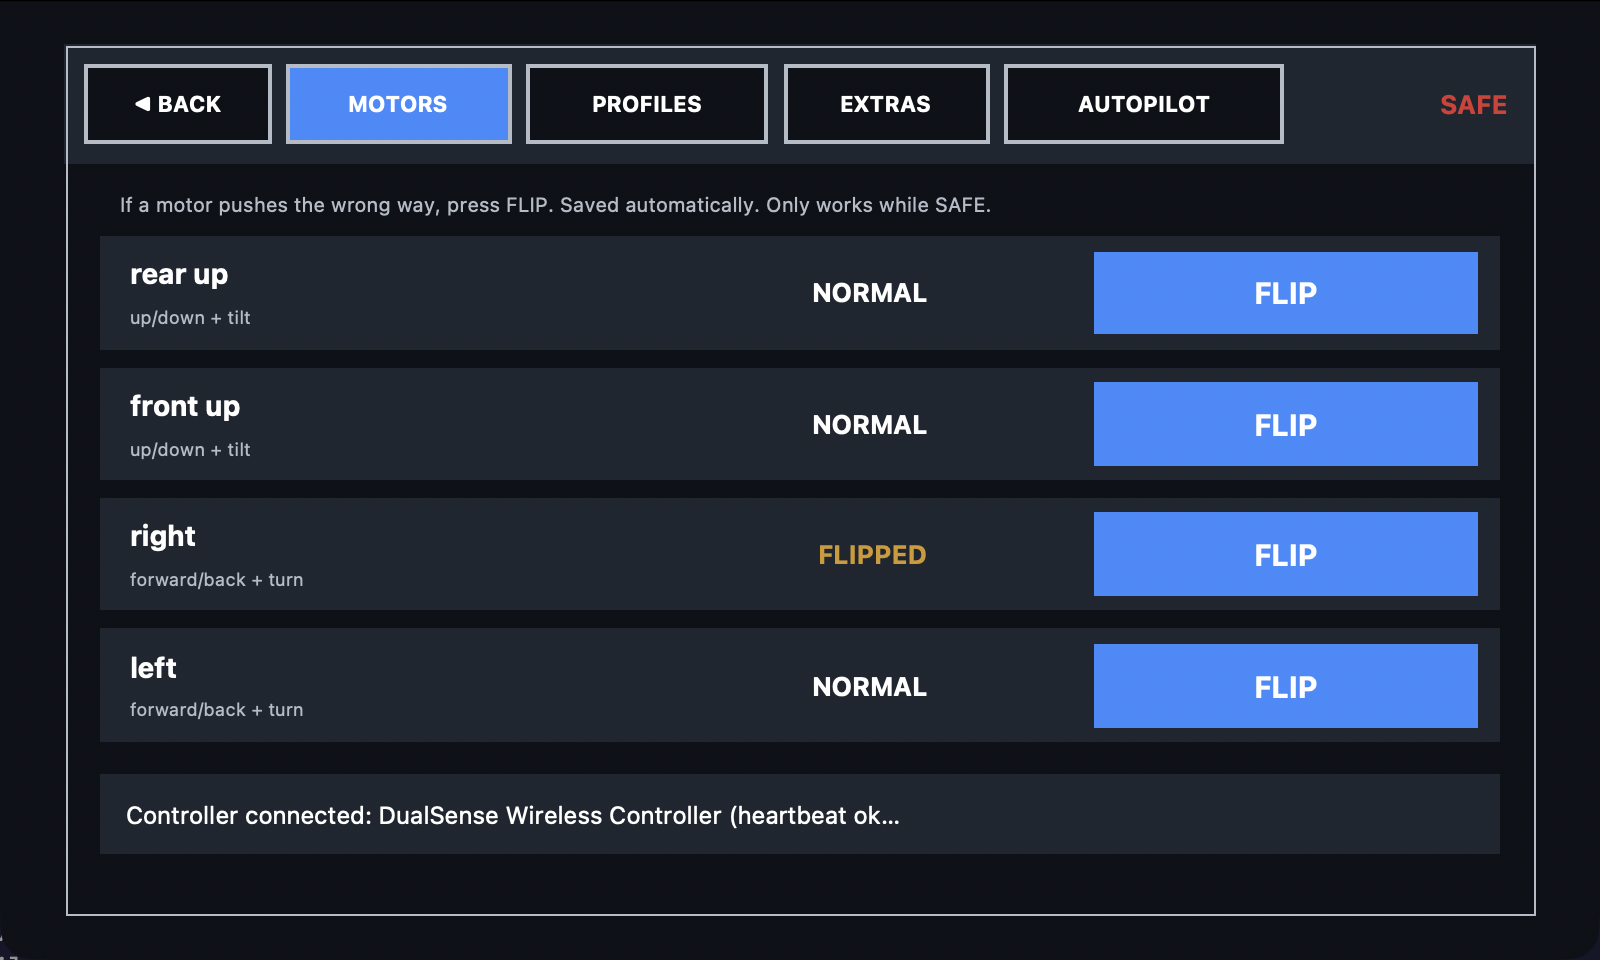
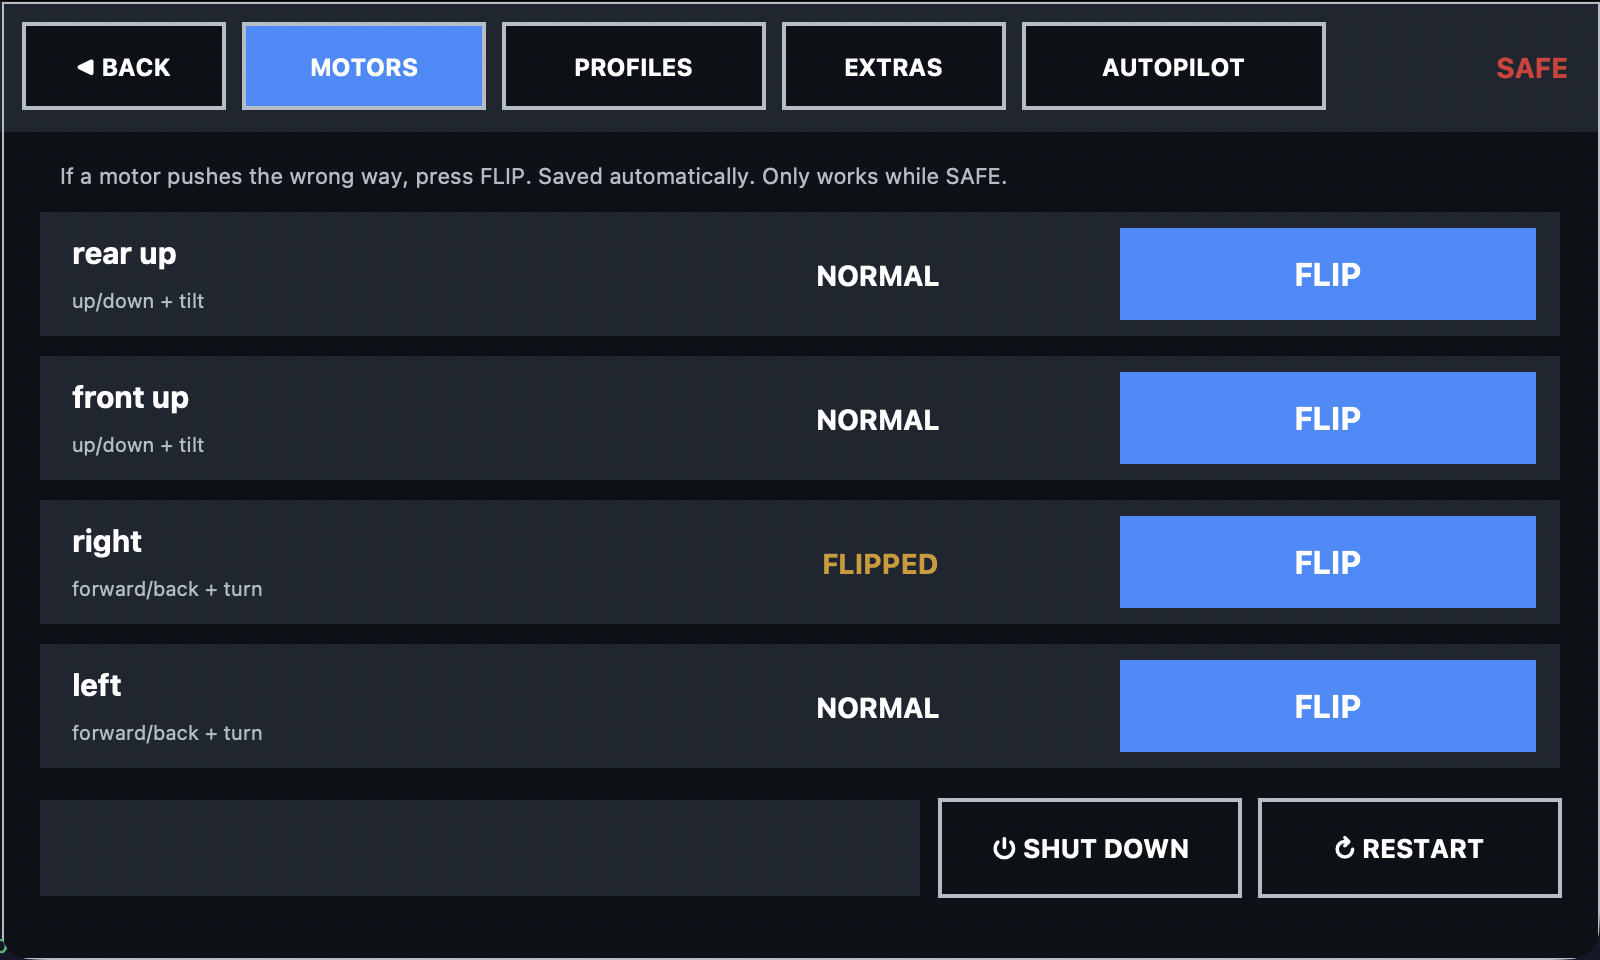
Camera full screen, ISO and RGB picture controls, Pi shut down / restart buttons
- CAMERA > FULL SCREEN: video fills the screen, STOP + ARMED/SAFE in the side bars
- PICTURE: GAIN is now ISO (25-400); WARMTH replaced by RED / GREEN / BLUE
  (old warmth settings carry over)
- SETUP > MOTORS: SHUT DOWN / RESTART the Pi (SAFE only, tap twice to confirm,
  motors off first; works even if the ROV program isn't running)

Changed region(s): [[0.0, 0.0, 1.0, 0.9375], [0.5, 0.5625, 0.5938, 0.5938], [0.0, 0.9688, 0.0312, 1.0]]

diff --git a/rov_gui.py b/rov_gui.py
@@ -151,11 +151,13 @@ FLIP_TEXT = {"none": "", "rotate": "UPSIDE DOWN", "mirror": "MIRRORED"}
 # Picture adjustments (done in ffmpeg, so they work with any capture card):
 # key, label, min, max, step, default, how to show the value
 PICTURE = [
-    ("gain", "GAIN (ISO)", 0.25, 4.0, 0.25, 1.0, lambda v: f"x{v:.2f}"),
+    ("gain", "ISO", 0.25, 4.0, 0.25, 1.0, lambda v: f"{v * 100:.0f}"),      # ISO 100 = normal
     ("brightness", "BRIGHTNESS", -0.5, 0.5, 0.05, 0.0, lambda v: f"{round(v * 20):+d}"),
     ("contrast", "CONTRAST", 0.5, 2.0, 0.1, 1.0, lambda v: f"x{v:.1f}"),
     ("saturation", "COLOUR", 0.0, 3.0, 0.1, 1.0, lambda v: f"x{v:.1f}"),
-    ("warmth", "WARMTH", -1.0, 1.0, 0.1, 0.0, lambda v: f"{round(v * 10):+d}"),
+    ("red", "RED", 0.0, 2.0, 0.05, 1.0, lambda v: f"{v * 100:.0f}%"),
+    ("green", "GREEN", 0.0, 2.0, 0.05, 1.0, lambda v: f"{v * 100:.0f}%"),
+    ("blue", "BLUE", 0.0, 2.0, 0.05, 1.0, lambda v: f"{v * 100:.0f}%"),
 ]
 PICTURE_DEFAULT = {k: d for k, _, _, _, _, d, _ in PICTURE}
 
@@ -164,10 +166,12 @@ def picture_filters(adj):
     """ffmpeg filters for the picture settings (none when everything is at default)."""
     a = dict(PICTURE_DEFAULT, **adj)
     out = []
-    g, w = a["gain"], a["warmth"]
-    if abs(g - 1) > 1e-6 or abs(w) > 1e-6:
-        # gain = brighter sensor (like ISO); warmth = more red / less blue (water makes things blue-green)
-        out.append(f"colorchannelmixer=rr={g * (1 + 0.35 * w):.3f}:gg={g:.3f}:bb={g * (1 - 0.35 * w):.3f}")
+    g = a["gain"]
+    r, gr, b = g * a["red"], g * a["green"], g * a["blue"]
+    if any(abs(v - 1) > 1e-6 for v in (r, gr, b)):
+        # ISO = brighter picture (all colours); RED/GREEN/BLUE = each colour on its own
+        # (water makes things blue-green: try more RED, less BLUE)
+        out.append(f"colorchannelmixer=rr={r:.3f}:gg={gr:.3f}:bb={b:.3f}")
     if abs(a["brightness"]) > 1e-6 or abs(a["contrast"] - 1) > 1e-6 or abs(a["saturation"] - 1) > 1e-6:
         out.append(f"eq=brightness={a['brightness']:.2f}:contrast={a['contrast']:.2f}"
                    f":saturation={a['saturation']:.2f}")
@@ -188,6 +192,13 @@ def load_camera_settings():
     if not isinstance(data, dict):
         data = {}
     flip = data.get("flip", "none")
+    pic = data.get("picture")
+    if isinstance(pic, dict) and "warmth" in pic and "red" not in pic:    # older setting: WARMTH -> RED/BLUE
+        try:
+            w = float(pic["warmth"])
+            pic.update(red=round(1 + 0.35 * w, 2), blue=round(1 - 0.35 * w, 2))
+        except (TypeError, ValueError):
+            pass
     adj = {}
     for k, _, lo, hi, _, d, _ in PICTURE:
         try:
@@ -483,12 +494,60 @@ class Dashboard:
             c.create_text(664, y + 31, text="FLIP", font=fnt(16, "bold"), fill="white", tags=tag)
             c.tag_bind(tag, "<Button-1>", lambda e, i=i: self.flip(i))
             self.flip_rows.append((name, job, state, rect))
-        c.create_rectangle(20, 402, 780, 446, fill=PANEL, width=0)
-        self.setup_msg = c.create_text(34, 424, anchor="w", text="", font=fnt(13), fill=FG)
+        c.create_rectangle(20, 400, 460, 448, fill=PANEL, width=0)
+        self.setup_msg = c.create_text(34, 424, anchor="w", text="", font=fnt(12), fill=FG)
+        # Pi power (tap twice: the first tap asks "TAP AGAIN")
+        for x0, x1, what, label in ((470, 620, "off", "⏻ SHUT DOWN"), (630, 780, "reboot", "↻ RESTART")):
+            tag = f"pw_{what}"
+            c.create_rectangle(x0, 400, x1, 448, fill=BG, outline=DIM, width=2, tags=tag)
+            c.create_text((x0 + x1) / 2, 424, text=label, font=fnt(13, "bold"), fill=FG, tags=tag)
+            c.tag_bind(tag, "<Button-1>", lambda e, w=what: self.power_click(w))
         c.create_rectangle(1, 1, W - 1, H - 1, outline=DIM, width=1)
         c.scale("all", 0, 0, SX, SY)
         c.move("all", MARGINS[0], MARGINS[1])
         self.armed = False
+        self.power_armed, self.power_job = None, None
+        self.setup_note, self.setup_note_until = "", 0.0
+
+    def power_label(self, what, text, color):
+        c = self.c2
+        for item in c.find_withtag(f"pw_{what}"):
+            if c.type(item) == "text":
+                c.itemconfig(item, text=text)
+            else:
+                c.itemconfig(item, fill=color)
+
+    def power_reset(self):
+        self.power_armed = self.power_job = None
+        self.power_label("off", "⏻ SHUT DOWN", BG)
+        self.power_label("reboot", "↻ RESTART", BG)
+
+    def power_click(self, what):
+        """SHUT DOWN / RESTART the Pi: only while SAFE, and only after a second tap within 4 s."""
+        word = "SHUT DOWN" if what == "off" else "RESTART"
+        if self.armed:
+            self.setup_note, self.setup_note_until = f"Press STOP first, then {word}", time.monotonic() + 5
+            return
+        if self.power_armed == what:
+            if self.power_job:
+                self.root.after_cancel(self.power_job)
+            self.power_reset()
+            self.cam.stop()
+            if read_status() is not None:
+                send("power:" + what)          # rov.py switches the motors off first, then powers off
+            else:                              # ROV program not running: do it from here
+                action = "poweroff" if what == "off" else "reboot"
+                subprocess.Popen(["sudo", "-n", "systemctl", action], stdout=subprocess.DEVNULL,
+                                 stderr=subprocess.DEVNULL)
+            self.setup_note = "Shutting down…" if what == "off" else "Restarting…"
+            self.setup_note_until = time.monotonic() + 60
+            return
+        self.power_reset()
+        self.power_armed = what
+        self.power_label(what, "TAP AGAIN", RED)
+        self.setup_note = "Tap again to power OFF the Pi" if what == "off" else "Tap again to RESTART the Pi (~1 min)"
+        self.setup_note_until = time.monotonic() + 4
+        self.power_job = self.root.after(4000, self.power_reset)
 
     def flip(self, i):
         if self.armed:
@@ -1235,23 +1294,39 @@ class Dashboard:
         self.cprofile = c.create_text(624, 96, anchor="w", text="", font=fnt(11), fill=DIM)
         self.cbars = []
         for i in range(4):
-            y = 118 + i * 44
+            y = 110 + i * 40
             name = c.create_text(624, y + 8, anchor="w", text="", font=fnt(10), fill=FG)
             c.create_rectangle(624, y + 20, 788, y + 34, fill=TRACK, width=0)
             bar = c.create_rectangle(706, y + 20, 706, y + 34, fill=GREEN, width=0)
             c.create_line(706, y + 17, 706, y + 37, fill=DIM)
             self.cbars.append((name, bar))
-        self.small_button(c, 620, 294, 702, 334, "◀ BACK", self.show_main, tag="cam_back")
-        self.small_button(c, 710, 294, 792, 334, "FLIP ↻", self.flip_camera, tag="cam_flip")
-        self.small_button(c, 620, 340, 702, 378, "PICTURE", self.toggle_picture, tag="cam_pic")
-        self.pick_btn = self.small_button(c, 710, 340, 792, 378, "PICK", self.toggle_pick, tag="cam_pick")
+        self.small_button(c, 620, 272, 702, 306, "◀ BACK", self.show_main, tag="cam_back")
+        self.small_button(c, 710, 272, 792, 306, "FLIP ↻", self.flip_camera, tag="cam_flip")
+        self.small_button(c, 620, 312, 702, 346, "PICTURE", self.toggle_picture, tag="cam_pic")
+        self.pick_btn = self.small_button(c, 710, 312, 792, 346, "PICK", self.toggle_pick, tag="cam_pick")
+        self.small_button(c, 620, 352, 792, 386, "⛶ FULL SCREEN", self.toggle_full, tag="cam_full")
         c.bind("<Button-1>", self.cam_click, add="+")
         self.flip_label = c.create_text(10, 14, anchor="w", text="", font=fnt(11, "bold"), fill=AMBER)
-        c.create_rectangle(620, 386, 792, 470, fill=RED, outline=TRACK, width=2, tags="cam_stop")
-        c.create_text(706, 420, text="STOP", font=fnt(24, "bold"), fill="white", tags="cam_stop")
-        c.create_text(706, 454, text="(Esc)", font=fnt(10), fill="#f0f0f0", tags="cam_stop")
+        c.create_rectangle(620, 394, 792, 470, fill=RED, outline=TRACK, width=2, tags="cam_stop")
+        c.create_text(706, 424, text="STOP", font=fnt(24, "bold"), fill="white", tags="cam_stop")
+        c.create_text(706, 456, text="(Esc)", font=fnt(10), fill="#f0f0f0", tags="cam_stop")
         c.tag_bind("cam_stop", "<Button-1>", lambda e: send("stop"))
         self.cmsg = c.create_text(8, 465, anchor="w", text="", font=fnt(11), fill=FG)
+        c.addtag_overlapping("side", 607, 0, 800, 480)       # the sidebar: hidden in full screen
+        c.addtag_withtag("side", self.cmsg)
+        # full screen: 4:3 video in the middle (80..720), these controls in the black bars at the sides
+        self.fbadge = c.create_rectangle(724, 6, 796, 56, fill=RED, width=0, tags="fs")
+        self.fbadge_txt = c.create_text(760, 31, text="SAFE", font=fnt(12, "bold"), fill="white", tags="fs")
+        self.fspeed = c.create_text(760, 76, text="", font=fnt(11, "bold"), fill=FG, tags="fs")
+        c.create_rectangle(724, 330, 796, 474, fill=RED, outline=TRACK, width=2, tags=("fs", "fs_stop"))
+        c.create_text(760, 392, text="STOP", font=fnt(15, "bold"), fill="white", tags=("fs", "fs_stop"))
+        c.create_text(760, 420, text="(Esc)", font=fnt(9), fill="#f0f0f0", tags=("fs", "fs_stop"))
+        c.tag_bind("fs_stop", "<Button-1>", lambda e: send("stop"))
+        c.create_rectangle(4, 6, 76, 120, fill=PANEL, outline=DIM, width=2, tags=("fs", "fs_exit"))
+        c.create_text(40, 46, text="⛶", font=fnt(22, "bold"), fill=FG, tags=("fs", "fs_exit"))
+        c.create_text(40, 90, text="EXIT", font=fnt(11, "bold"), fill=FG, tags=("fs", "fs_exit"))
+        c.tag_bind("fs_exit", "<Button-1>", lambda e: self.toggle_full())
+        self.full = False
         self.build_picture_panel(c)
         self.picking = False
         c.scale("all", 0, 0, SX, SY)
@@ -1273,25 +1348,26 @@ class Dashboard:
         c.tag_raise("pic")
         c.itemconfig("pic", state="hidden")
         c.itemconfig(self.flip_label, text=FLIP_TEXT[self.cam_flip])
+        c.itemconfig("fs", state="hidden")
         self.shown_frame = 0
 
     # picture adjustments panel (over the left of the video)
     def build_picture_panel(self, c):
-        c.create_rectangle(6, 30, 306, 314, fill=PANEL, outline=DIM, width=2, tags="pic")
+        c.create_rectangle(6, 30, 306, 352, fill=PANEL, outline=DIM, width=2, tags="pic")
         self.pic_vals = {}
         for i, (k, label, *_rest) in enumerate(PICTURE):
-            y = 40 + i * 44
-            c.create_text(16, y + 18, anchor="w", text=label, font=fnt(11, "bold"), fill=FG, tags="pic")
+            y = 38 + i * 38
+            c.create_text(16, y + 16, anchor="w", text=label, font=fnt(11, "bold"), fill=FG, tags="pic")
             for x0, sym, d in ((150, "−", -1), (258, "+", 1)):
                 t = f"pic_{k}_{'up' if d > 0 else 'dn'}"
-                c.create_rectangle(x0, y, x0 + 40, y + 36, fill=BG, outline=DIM, width=2, tags=("pic", t))
-                c.create_text(x0 + 20, y + 18, text=sym, font=fnt(15, "bold"), fill=FG, tags=("pic", t))
+                c.create_rectangle(x0, y, x0 + 40, y + 32, fill=BG, outline=DIM, width=2, tags=("pic", t))
+                c.create_text(x0 + 20, y + 16, text=sym, font=fnt(15, "bold"), fill=FG, tags=("pic", t))
                 c.tag_bind(t, "<Button-1>", lambda e, k=k, d=d: self.adjust_picture(k, d))
-            self.pic_vals[k] = c.create_text(224, y + 18, text="", font=fnt(12, "bold"), fill=FG, tags="pic")
+            self.pic_vals[k] = c.create_text(224, y + 16, text="", font=fnt(12, "bold"), fill=FG, tags="pic")
         for x0, x1, t, label, fn in ((14, 152, "pic_reset", "RESET", self.reset_picture),
                                      (160, 298, "pic_close", "CLOSE", self.toggle_picture)):
-            c.create_rectangle(x0, 266, x1, 304, fill=BG, outline=DIM, width=2, tags=("pic", t))
-            c.create_text((x0 + x1) / 2, 285, text=label, font=fnt(12, "bold"), fill=FG, tags=("pic", t))
+            c.create_rectangle(x0, 308, x1, 344, fill=BG, outline=DIM, width=2, tags=("pic", t))
+            c.create_text((x0 + x1) / 2, 326, text=label, font=fnt(12, "bold"), fill=FG, tags=("pic", t))
             c.tag_bind(t, "<Button-1>", lambda e, fn=fn: fn())
         self.pic_open = False
         self.show_picture_values(c)
@@ -1344,7 +1420,31 @@ class Dashboard:
         self.c3.itemconfig(self.pick_msg, text="■ TARGET COLOUR PICKED", fill=rgb if pick[2] > 0.3 else AMBER)
         self.root.after(4000, lambda: self.picking or self.c3.itemconfig(self.pick_msg, text="", fill=AMBER))
 
+    def toggle_full(self):
+        """FULL SCREEN: the video fills the screen (4:3, side bars keep STOP and ARMED/SAFE)."""
+        c = self.c3
+        self.full = not self.full
+        if self.full and self.pic_open:
+            self.toggle_picture()
+        box = (80, 0, 720, 480) if self.full else (0, 0, 600, 450)
+        x0, y0, x1, y1 = X(box[0]), Y(box[1]), X(box[2]), Y(box[3])
+        c.coords(self.video_box, x0, y0, x1, y1)
+        c.coords(self.video_item, x0, y0)
+        c.coords(self.no_signal, (x0 + x1) / 2, (y0 + y1) / 2)
+        c.coords(self.flip_label, x0 + 10 * SX, y0 + 14 * SY)
+        c.coords(self.ov_text, x0 + 8 * SX, y0 + 40 * SY)
+        c.coords(self.cam_alert_rect, x0, y1 - 40 * SY, x1, y1)
+        c.coords(self.cam_alert, (x0 + x1) / 2, y1 - 20 * SY)
+        c.coords(self.pick_msg, (x0 + x1) / 2, y1 - 60 * SY)
+        c.itemconfig("side", state="hidden" if self.full else "normal")
+        c.itemconfig("fs", state="normal" if self.full else "hidden")
+        self.video_img.blank()
+        if self.cam.alive():
+            self.camera_policy(restart=True)       # new picture size
+
     def toggle_picture(self):
+        if self.full:
+            return
         if not self.pic_open and getattr(self, "picking", False):
             self.toggle_pick()
         self.pic_open = not self.pic_open
@@ -1429,10 +1529,15 @@ class Dashboard:
         if st is None:
             c.itemconfig(self.cbadge, fill=AMBER)
             c.itemconfig(self.cbadge_txt, text="OFFLINE")
+            c.itemconfig(self.fbadge, fill=AMBER)
+            c.itemconfig(self.fbadge_txt, text="OFFLINE")
             return
         armed = st["armed"]
         c.itemconfig(self.cbadge, fill=GREEN if armed else RED)
         c.itemconfig(self.cbadge_txt, text="ARMED" if armed else "SAFE")
+        c.itemconfig(self.fbadge, fill=GREEN if armed else RED)
+        c.itemconfig(self.fbadge_txt, text="ARMED" if armed else "SAFE")
+        c.itemconfig(self.fspeed, text=f"{st['speed']}%")
         c.itemconfig(self.cspeed, text=f"Speed {st['speed']}%")
         c.itemconfig(self.cprofile, text=short(f"Profile: {st.get('profile_name', '')}", 24))
         for (name, bar), m in zip(self.cbars, st["motors"]):
@@ -1458,7 +1563,8 @@ class Dashboard:
             inv = m.get("invert", False)
             c.itemconfig(state, text="FLIPPED" if inv else "NORMAL", fill=AMBER if inv else FG)
             c.itemconfig(rect, fill=TRACK if self.armed else BLUE)
-        c.itemconfig(self.setup_msg, text=short(st.get("msg", "")))
+        note = self.setup_note if time.monotonic() < self.setup_note_until else ""
+        c.itemconfig(self.setup_msg, text=short(note or st.get("msg", ""), 44))
 
     def button(self, x0, y0, x1, y1, cmd, label, sub, color):
         tag = f"btn_{cmd}"

diff --git a/rov.py b/rov.py
@@ -44,6 +44,7 @@ import logging
 import os
 import select
 import signal
+import subprocess
 import sys
 import time
 import tomllib
@@ -1228,6 +1229,8 @@ class ROV:
             self.end_tune()
         elif cmd.startswith("tune:"):
             self.set_tune(cmd[5:])
+        elif cmd in ("power:off", "power:reboot"):
+            self.power(cmd[6:])
         elif cmd.startswith("ap_enable:"):
             self.ap.set_enabled(cmd.endswith(":1"))
         elif cmd == "ap_off":
@@ -1237,6 +1240,23 @@ class ROV:
         elif cmd.startswith("ap_set:"):
             _, key, value = cmd.split(":", 2)
             self.ap.set(key, value)
+
+    def power(self, what):
+        """SHUT DOWN / RESTART the Pi from the screen (SETUP > MOTORS). Only while SAFE; motors off first."""
+        if self.armed:
+            self.say("Press STOP first: the Pi only shuts down / restarts while SAFE")
+            return
+        self.disarm("power " + what)
+        self.say("Shutting down… wait 20 s before unplugging" if what == "off" else "Restarting the Pi…")
+        self.write_status_file()
+        action = "poweroff" if what == "off" else "reboot"
+        for cmd in (["sudo", "-n", "systemctl", action], ["systemctl", action]):
+            try:
+                if subprocess.run(cmd, capture_output=True, timeout=30).returncode == 0:
+                    return
+            except (OSError, subprocess.SubprocessError):
+                pass
+        self.say("Can't " + ("shut down" if what == "off" else "restart") + ": no permission (sudo)")
 
     def flip_motor(self, idx):
         """Reverse one motor's direction (only while SAFE) and save it to config.toml."""

diff --git a/README.md b/README.md
@@ -21,12 +21,12 @@ curl -fsSL https://raw.githubusercontent.com/codemastervy/underwater-rov/main/se
 ## Screenshots
 The dashboard (800x480), captured running on a computer with simulated ROV data; the camera picture is a placeholder:
 
-| Main (armed, driving) | Camera + picture adjustments |
+| Main (armed, driving) | Camera + PICTURE (ISO, RGB) |
 |---|---|
 | ![Main page](docs/screenshots/main.png) | ![Camera page](docs/screenshots/camera.png) |
 | **SETUP › EXTRAS** (keyboard drive, arm tune, software update) | Keyboard driving |
 | ![Extras page](docs/screenshots/extras.png) | ![Keyboard driving](docs/screenshots/keyboard.png) |
-| **SETUP › MOTORS** (flip motors) | **SETUP › PROFILES** (profile editor) |
+| **SETUP › MOTORS** (flip motors, Pi SHUT DOWN / RESTART) | **SETUP › PROFILES** (profile editor) |
 | ![Motors page](docs/screenshots/motors.png) | ![Profiles page](docs/screenshots/profiles.png) |
 | **SETUP › AUTOPILOT** | Mission editor |
 | ![Autopilot page](docs/screenshots/autopilot.png) | ![Mission page](docs/screenshots/mission.png) |
@@ -34,8 +34,8 @@ The dashboard (800x480), captured running on a computer with simulated ROV data;
 | ![Autopilot OK](docs/screenshots/status-good.png) | ![Take control warning](docs/screenshots/alert.png) |
 | Line following (camera view) | PICK: click an object to follow its colour |
 | ![Line following](docs/screenshots/camera-line.png) | ![Pick a colour](docs/screenshots/camera-pick.png) |
-| SET TUNE: paste a ringtone | |
-| ![Set tune](docs/screenshots/extras-tune.png) | |
+| SET TUNE: paste a ringtone | Camera full screen |
+| ![Set tune](docs/screenshots/extras-tune.png) | ![Camera full screen](docs/screenshots/camera-full.png) |
 
 ## Files
 | File | What it is |
@@ -192,10 +192,16 @@ note so the props don't creep.
 ### Dashboard (case monitor)
 - Main page: armed/SAFE, profile, speed, live motor bars, big **STOP** button.
 - **SETUP › MOTORS**: **FLIP** reverses a motor that pushes the wrong way (only while SAFE, saved automatically).
+  **⏻ SHUT DOWN** powers the Pi off safely and **↻ RESTART** reboots it: only while SAFE, and you tap twice (the
+  button turns red: TAP AGAIN). Motors are switched off first. After SHUT DOWN, wait ~20 s, then unplug; to turn
+  it back on, unplug and plug the power back in (a Pi can't switch itself on).
 - **SETUP › EXTRAS**: keyboard drive, arm sound and tune, **software update** (version, CHECK NOW / UPDATE NOW).
 - **CAMERA**: live feed from the USB capture card. **FLIP** cycles normal → upside down → mirrored.
-  **PICTURE** opens the picture controls: **gain (ISO)**, brightness, contrast, **colour** (saturation) and **warmth**
-  (adds red / removes blue, which helps underwater). Saved in `camera.json`; RESET goes back to normal.
+  **PICTURE** opens the picture controls: **ISO** (100 = normal, up to 400 for dark water; it brightens the picture
+  digitally because the capture card has no real ISO), brightness, contrast, **colour** (saturation) and **RED / GREEN /
+  BLUE** each on their own (water makes things blue-green: try more RED, less BLUE). Saved in `camera.json`; RESET goes
+  back to normal. **⛶ FULL SCREEN** makes the video fill the screen; STOP and ARMED/SAFE stay in the side bars,
+  **EXIT** goes back.
 - Keyboard: Esc = stop (also Space when keyboard drive is off), +/- = speed, p = next profile, c = camera, F11 = full screen.
 - If the edges are cut off on another monitor: `python3 /opt/rov/rov_gui.py --margins 30,20,30,20`.
 
